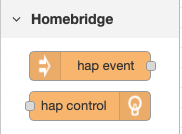
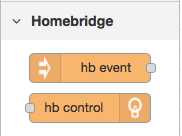
Tuning

diff --git a/HAP-NodeRed.js b/HAP-NodeRed.js
@@ -7,8 +7,8 @@ module.exports = function(RED) {
   var ctDevices = [];
   var homebridge;
 
-  function hapConf(n) {
-    debug("hapConf", n);
+  function hbConf(n) {
+    debug("hbConf", n);
     RED.nodes.createNode(this, n);
     this.username = n.username;
     this.password = this.credentials.password;
@@ -126,7 +126,7 @@ module.exports = function(RED) {
     });
   }
 
-  RED.nodes.registerType("hap-conf", hapConf, {
+  RED.nodes.registerType("hb-conf", hbConf, {
     credentials: {
       password: {
         type: "password"
@@ -143,17 +143,17 @@ module.exports = function(RED) {
   device: 'RajCC:22:3D:E3:CF:32hampton-bayCeiling One light0000004300000025',
   */
 
-  function hapEvent(n) {
+  function hbEvent(n) {
     RED.nodes.createNode(this, n);
     this.conf = RED.nodes.getNode(n.conf);
     this.confId = n.conf;
     this.device = n.device;
     this.hapEndpoint = n.hapEndpoint;
     this.deviceType = n.deviceType;
-    this.hapDevice = n.hapDevice;
+    this.hbDevice = n.hbDevice;
     this.name = n.name;
 
-    debug("hapEvent", JSON.stringify(n));
+    debug("hbEvent", JSON.stringify(n));
 
     /*
     {"id":"7a703739.8abc5",
@@ -175,10 +175,10 @@ module.exports = function(RED) {
       var msg = {
         name: node.name,
         payload: event.status,
-        Homebridge: node.hapDevice.homebridge,
-        Manufacturer: node.hapDevice.manufacturer,
-        Type: node.hapDevice.deviceType,
-        Function: node.hapDevice.function,
+        Homebridge: node.hbDevice.homebridge,
+        Manufacturer: node.hbDevice.manufacturer,
+        Type: node.hbDevice.deviceType,
+        Function: node.hbDevice.function,
         _confId: node.confId,
         _rawEvent: event
       };
@@ -187,15 +187,15 @@ module.exports = function(RED) {
 
     node.conf.register(node, function() {
       debug("Registered", node.name);
-      this.hapDevice = _findEndpoint(evDevices, node.device);
-      if (this.hapDevice) {
-        node.hapEndpoint = 'host: ' + this.hapDevice.host + ':' + this.hapDevice.port + ', aid: ' + this.hapDevice.aid + ', iid: ' + this.hapDevice.iid;
-        node.hapDevice = this.hapDevice;
-        node.deviceType = this.hapDevice.deviceType;
+      this.hbDevice = _findEndpoint(evDevices, node.device);
+      if (this.hbDevice) {
+        node.hapEndpoint = 'host: ' + this.hbDevice.host + ':' + this.hbDevice.port + ', aid: ' + this.hbDevice.aid + ', iid: ' + this.hbDevice.iid;
+        node.hbDevice = this.hbDevice;
+        node.deviceType = this.hbDevice.deviceType;
         // Register for events
         node.listener = node.command;
-        node.eventName = this.hapDevice.host + this.hapDevice.port + this.hapDevice.aid + this.hapDevice.iid;
-        homebridge.on(this.hapDevice.host + this.hapDevice.port + this.hapDevice.aid + this.hapDevice.iid, node.command);
+        node.eventName = this.hbDevice.host + this.hbDevice.port + this.hbDevice.aid + this.hbDevice.iid;
+        homebridge.on(this.hbDevice.host + this.hbDevice.port + this.hbDevice.aid + this.hbDevice.iid, node.command);
         debug("after reg count", homebridge.listenerCount(node.eventName));
         node.status({
           text: 'connected',
@@ -213,19 +213,19 @@ module.exports = function(RED) {
     });
   }
 
-  RED.nodes.registerType("hb-event", hapEvent);
+  RED.nodes.registerType("hb-event", hbEvent);
 
-  function hapControl(n) {
+  function hbControl(n) {
     RED.nodes.createNode(this, n);
     this.conf = RED.nodes.getNode(n.conf); // The configuration node
     this.confId = n.conf;
     this.device = n.device;
     this.hapEndpoint = n.hapEndpoint;
     this.deviceType = n.deviceType;
-    this.hapDevice = n.hapDevice;
+    this.hbDevice = n.hbDevice;
     this.name = n.name;
 
-    debug("hapControl", n);
+    debug("hbControl", n);
 
     var node = this;
 
@@ -242,7 +242,7 @@ module.exports = function(RED) {
     });
   }
 
-  RED.nodes.registerType("hb-control", hapControl);
+  RED.nodes.registerType("hb-control", hbControl);
 
   /* Device object
   { host: '192.168.1.253',

diff --git a/HAP-NodeRed.html b/HAP-NodeRed.html
@@ -1,17 +1,17 @@
-<script type="text/x-red" data-template-name="hap-conf">
+<script type="text/x-red" data-template-name="hb-conf">
     <div class="form-row">
 	    <label for="node-config-input-username"><i class="icon-tag"></i> Pin</label>
 	    <input type="text" id="node-config-input-username">
 	</div>
 </script>
 
-<script type="text/x-red" data-help-name="hap-conf">
+<script type="text/x-red" data-help-name="hb-conf">
 	<p>This allows you to register your homebridge PIN</p>
 
 </script>
 
 <script type="text/javascript">
-    RED.nodes.registerType('hap-conf',{
+    RED.nodes.registerType('hb-conf',{
         category: 'config',
         defaults: {
         	username: {}
@@ -78,7 +78,7 @@
           Type: {value: ""},
           Function: {value: ""},
           device: {value: ""},
-          conf: {value: "", type:"hap-conf"}
+          conf: {value: "", type:"hb-conf"}
         },
         outputs: 1,
         inputs: 0,
@@ -201,7 +201,7 @@
           Type: {value: ""},
           Function: {value: ""},
           device: {value: ""},
-          conf: {value: "", type:"hap-conf"}
+          conf: {value: "", type:"hb-conf"}
         },
         outputs: 0,
         inputs: 1,

diff --git a/README.md b/README.md
@@ -20,11 +20,11 @@ The above Node-RED Flow, turns on my 'Outside Office' light when the powder room
       * [3 - Install HAP-NodeRED into Node-Red](#3---install-hap-nodered-into-node-red)
       * [4 - Start Node-Red](#4---start-node-red)
       * [5 - Initial setup and configuration inside Node-Red](#5---initial-setup-and-configuration-inside-node-red)
-      * [6 - Configure 'hap event' to receive updates from your Accessories](#6---configure-hap-event-to-receive-updates-from-your-accessories)
+      * [6 - Configure 'hb event' to receive updates from your Accessories](#6---configure-hb-event-to-receive-updates-from-your-accessories)
    * [Node-RED HAP-NodeRed Message Structure](#node-red-hap-nodered-message-structure)
       * [hb-Event](#hb-event)
       * [hb-control](#hb-control)
-   * [Troubleshooting / DEBUG MODE](#troubleshooting--debug-mode)
+   * [TroubleshhbDevice/ DEBUG MODE](#troubleshhbdevice-debug-mode)
       * [To start Node-RED in DEBUG mode, and output HAP-NodeRED debug logs start Node-RED like this.](#to-start-node-red-in-debug-mode-and-output-hap-nodered-debug-logs-start-node-red-like-this)
 
 <!-- Added by: sgracey, at:  -->
@@ -37,7 +37,7 @@ This is an Alpha release of the ability to integrate Homebridge Accessories into
 
 ![Homebridge Nodes](docs/Homebridge%20Nodes.png)
 
-This create's two separate node's in Node-Red, the first node "hap event" listens for changes to an accessory (ie on/off) and sends a message into Node-Red containing the updated accessory status.  The second node "hap control" allows you to control a homebridge accessory.  Each node is tied to an individual characteristic of an accessory (ie on/off or brightness).  Using a dimmable light bulb as an example, you would configure two nodes for it.  The first for On/Off and the second for brightness.
+This create's two separate node's in Node-Red, the first node "hb event" listens for changes to an accessory (ie on/off) and sends a message into Node-Red containing the updated accessory status.  The second node "hb control" allows you to control a homebridge accessory.  Each node is tied to an individual characteristic of an accessory (ie on/off or brightness).  Using a dimmable light bulb as an example, you would configure two nodes for it.  The first for On/Off and the second for brightness.
 
 ![Homebridge Nodes](docs/HAP%20Event%20Nodes.png)
 
@@ -45,7 +45,7 @@ This create's two separate node's in Node-Red, the first node "hap event" listen
 
 * Please keep in mind that this integration only works with devices supported/exposed with HomeBridge Plugins.  This does not have visibility to Native HomeKit devices.  ( Similar to my homebridge-alexa plugin. )
 
-* For the 'Hap Event' node, the ability of a Accessory to generate events in Real Time is dependent on how the plugin was architected and the actual device.  Some are very good at generating events in real time, and others only generate events when the Home App is opened to the accessory. YMMV.
+* For the 'hb Event' node, the ability of a Accessory to generate events in Real Time is dependent on how the plugin was architected and the actual device.  Some are very good at generating events in real time, and others only generate events when the Home App is opened to the accessory. YMMV.
 
 With a plugin, you can see if it supports Real Time events, by opening the Home App, and looking at an accessory.  Then trigger a local event outside of homebridge/homekit.  If the accessory updates in real time, then it support Real Events.  ( An example of a local event can be turning on a Smart Light Switch, by the local switch.  Another example would be using the vendor app to control an accessory.)    
 
@@ -79,8 +79,8 @@ Place your homebridge instances into "INSECURE MODE".  This is same as my [Homeb
 
 ## 5 - Initial setup and configuration inside Node-Red
 
-* 5.1 Select 'hap event' node and place onto flow.
-* 5.2 Double click on hap event node ( now called 'Choose accessory/event')
+* 5.1 Select 'hb event' node and place onto flow.
+* 5.2 Double click on hb event node ( now called 'Choose accessory/event')
 
 ![Choose](docs/Choose.png)
 
@@ -100,9 +100,9 @@ Place your homebridge instances into "INSECURE MODE".  This is same as my [Homeb
 * 5.7 Please wait about 30 seconds.  ( Node-RED is busy discovering all your accessories.)
 * 5.8 Initial setup and config is complete.
 
-## 6 - Configure 'hap event' to receive updates from your Accessories
+## 6 - Configure 'hb event' to receive updates from your Accessories
 
-* 6.1 Double click on hap event node ( now called 'Choose accessory/event')
+* 6.1 Double click on hb event node ( now called 'Choose accessory/event')
 
 ![Populated](docs/HAP%20Event%20Populated.png)
 
@@ -124,10 +124,10 @@ Message is structured like this
 msg = {
   name: node.name,
   payload: event.status,
-  Homebridge: node.hapDevice.homebridge,
-  Manufacturer: node.hapDevice.manufacturer,
-  Type: node.hapDevice.deviceType,
-  Function: node.hapDevice.function,
+  Homebridge: node.hbDevice.homebridge,
+  Manufacturer: node.hbDevice.manufacturer,
+  Type: node.hbDevice.deviceType,
+  Function: node.hbDevice.function,
   _confId: node.confId,
   _rawEvent: event
 };
@@ -143,7 +143,7 @@ msg = {
       }
 ```
 
-# Troubleshooting / DEBUG MODE
+# TroubleshhbDevice/ DEBUG MODE
 
 ## To start Node-RED in DEBUG mode, and output HAP-NodeRED debug logs start Node-RED like this.
 
